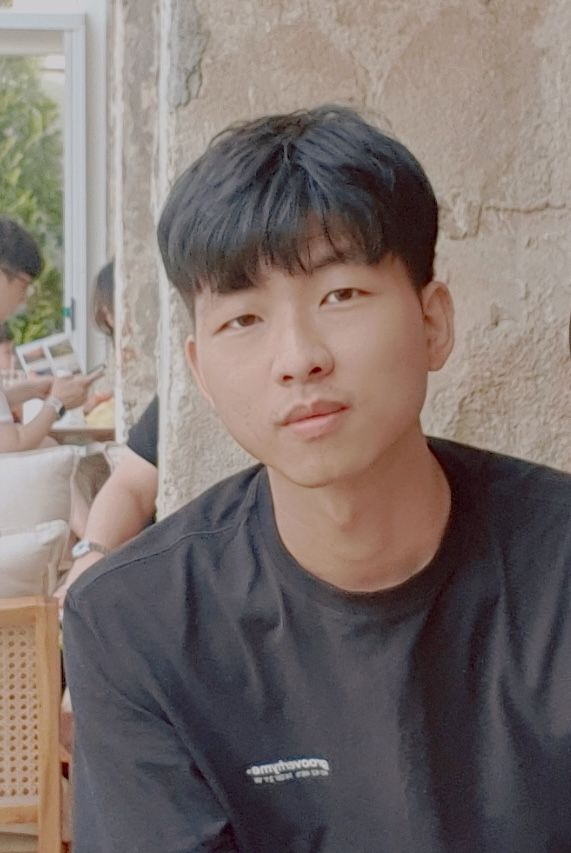
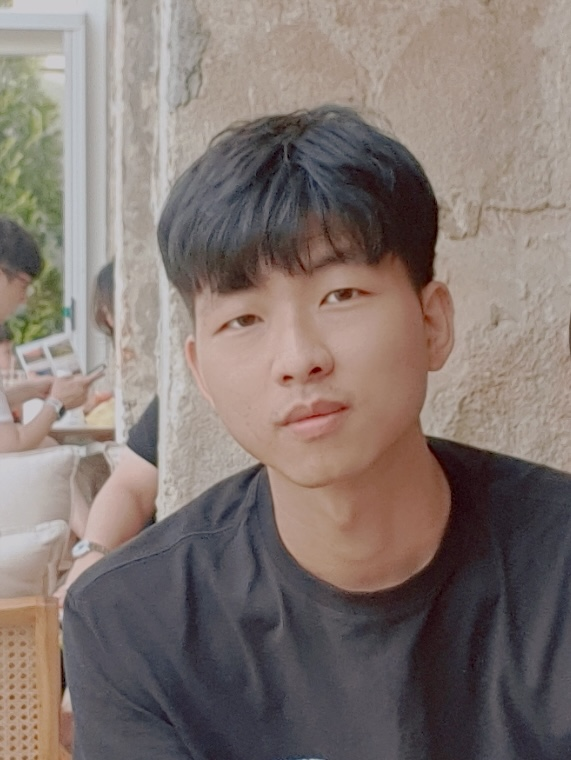
240208

diff --git a/profile.md b/profile.md
@@ -4,7 +4,7 @@ permalink: "/about/"
 layout: post
 ---
 
-<img src="./images/profile.jpeg" width="300"><br/>   
+<img src="https://github.com/YeongHyeon/YeongHyeon.github.io/blob/master/images/profile.jpeg?raw=true" width="300"><br/>   
 
 # YeongHyeon Park
 
